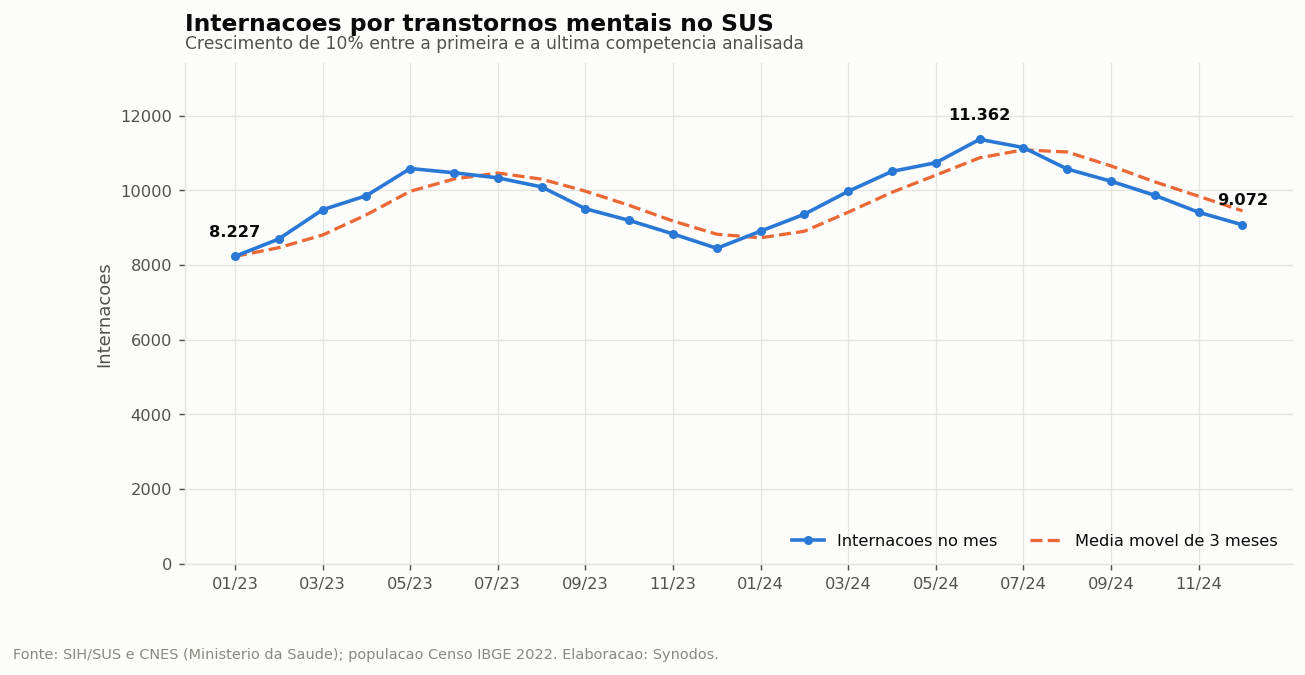
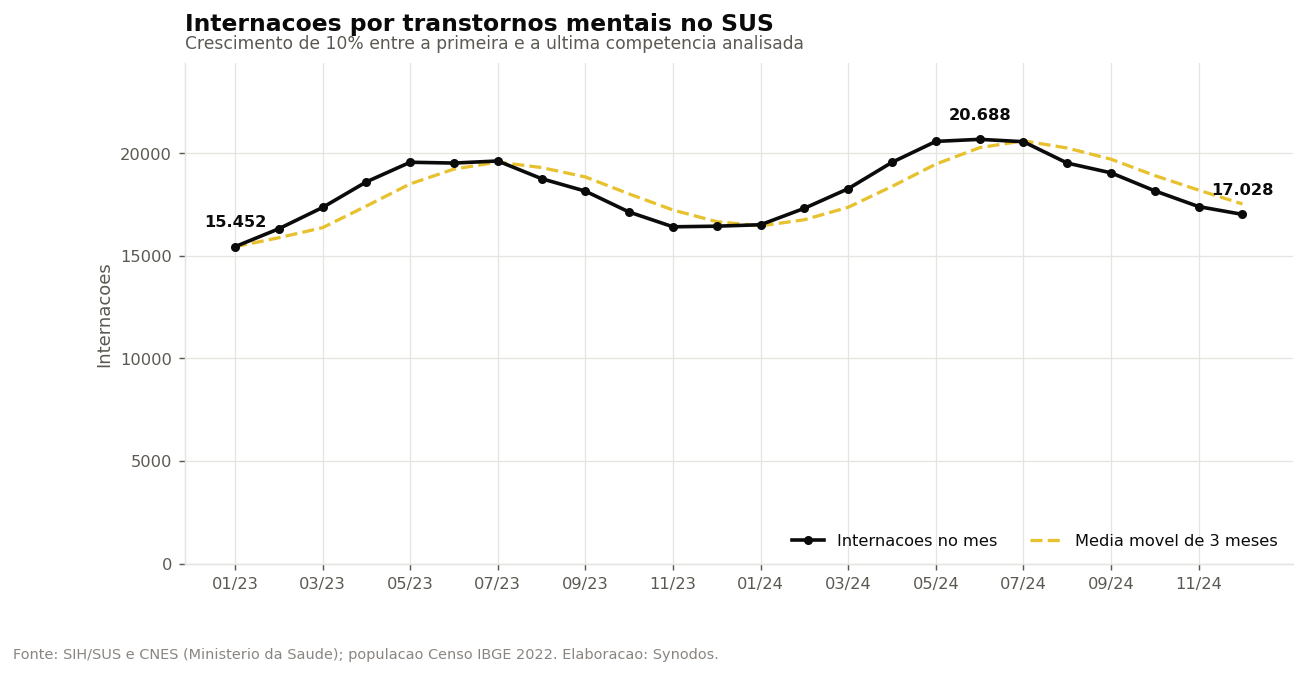
Upload Front-End

diff --git a/dashboard/app.py b/dashboard/app.py
@@ -25,14 +25,37 @@ sys.path.insert(0, str(Path(__file__).resolve().parents[1]))
 from config import settings  # noqa: E402
 
 # ------------------------------------------------------------------ paleta
-# Paleta categorica validada para daltonismo e contraste sobre fundo claro.
-SERIES = ["#2a78d6", "#eb6834", "#1baf7a", "#eda100",
-          "#e87ba4", "#008300", "#4a3aa7", "#e34948"]
-STATUS = {"Baixa": "#1baf7a", "Moderada": "#eda100",
-          "Alta": "#eb6834", "Crítica": "#e34948"}
-TEXT_SECONDARY = "#52514e"
-TEXT_MUTED = "#8a8880"
-GRID = "#e5e4df"
+# Identidade visual do Synodos: preto e ambar, herdada do prototipo da
+# Sprint 1. E um sistema monocromatico com um unico acento, entao a
+# diferenciacao vem da luminosidade, nao da variedade de matizes.
+PRETO = "#0b0b0b"
+AMBAR = "#e7c12e"
+AMBAR_ESCURO = "#b8860b"
+CINZA = "#8a8580"
+
+# Paleta categorica. Os graficos deste painel usam no maximo DUAS series
+# simultaneas, e o par preto/ambar tem separacao folgada: Delta E 66,9 em
+# visao com daltonismo e 68,9 em visao normal, muito acima dos pisos de 8
+# e 15. Os dois ultimos tons existem para eventuais terceiras series.
+SERIES = [PRETO, AMBAR, CINZA, AMBAR_ESCURO]
+
+# Escala de status, ordinal. Comeca no cinza neutro (sem alarme) e escurece
+# conforme a gravidade. O rotulo textual acompanha sempre a barra, entao a
+# identidade nunca depende so da cor - o que atende a regra de alivio para
+# o ambar, que fica abaixo de 3:1 de contraste sobre fundo branco.
+STATUS = {
+    "Baixa": CINZA,
+    "Moderada": AMBAR,
+    "Alta": AMBAR_ESCURO,
+    "Crítica": PRETO,
+}
+
+SUPERFICIE = "#ffffff"
+SUPERFICIE_CARD = "#f6f6f6"
+TEXT_SECONDARY = "#5c5952"
+TEXT_MUTED = "#8a8580"
+GRID = "#e6e4e0"
+BORDA = "#dedede"
 
 st.set_page_config(
     page_title="Synodos | Painel de Saúde Mental",
@@ -44,21 +67,73 @@ st.set_page_config(
 st.markdown(
     """
     <style>
-      .block-container {padding-top: 2.5rem; padding-bottom: 3rem;
-                        max-width: 1500px;}
-      [data-testid="stMetricValue"] {font-size: 1.9rem; font-weight: 600;}
-      [data-testid="stMetricLabel"] {font-size: 0.8rem; color: #52514e;}
-      h1 {font-size: 1.85rem !important; margin-bottom: 0.2rem !important;}
-      h3 {font-size: 1.15rem !important;}
-      .stTabs [data-baseweb="tab-list"] {gap: 1.6rem;}
-      .stTabs [data-baseweb="tab"] {padding: 0.4rem 0;}
-      .titulo-grafico {font-size: 1.02rem; font-weight: 600; color: #0b0b0b;
+      /* ---------------------------------------------- estrutura da pagina */
+      .block-container {padding-top: 1.2rem; padding-bottom: 3rem;
+                        max-width: 1560px;}
+      .stApp {background: #ffffff;}
+
+      /* ------------------------------- barra lateral preta, como no topo */
+      [data-testid="stSidebar"] {background: #0b0b0b;}
+      [data-testid="stSidebar"] * {color: #eceae5;}
+      [data-testid="stSidebar"] h1 {color: #e7c12e !important;
+                                    font-size: 1.5rem !important;
+                                    letter-spacing: 0.02em;}
+      [data-testid="stSidebar"] label,
+      [data-testid="stSidebar"] .stMarkdown p {color: #b9b5ad !important;
+                                               font-size: 0.82rem;}
+      [data-testid="stSidebar"] hr {border-color: #262626;}
+      /* campos de filtro sobre fundo escuro */
+      [data-testid="stSidebar"] [data-baseweb="select"] > div,
+      [data-testid="stSidebar"] [data-baseweb="input"] > div {
+          background: #1a1a1a; border-color: #333330;}
+      /* chips dos multiselect em ambar */
+      [data-testid="stSidebar"] [data-baseweb="tag"] {
+          background: #e7c12e !important;}
+      [data-testid="stSidebar"] [data-baseweb="tag"] span {
+          color: #0b0b0b !important; font-weight: 600;}
+      [data-testid="stSidebar"] [data-testid="stMetricValue"] {
+          color: #ffffff !important;}
+
+      /* -------------------------------------------- faixa preta do topo */
+      .faixa-topo {background: #0b0b0b; color: #ffffff;
+                   margin: -1.2rem -3rem 1.6rem -3rem;
+                   padding: 1.1rem 3rem 1.2rem 3rem;}
+      .faixa-topo .marca {color: #e7c12e; font-size: 0.72rem;
+                          font-weight: 700; letter-spacing: 0.16em;
+                          text-transform: uppercase;}
+      .faixa-topo h1 {color: #ffffff !important; font-size: 1.7rem !important;
+                      font-weight: 700; margin: 0.35rem 0 0.3rem 0 !important;}
+      .faixa-topo .legenda {color: #a8a49c; font-size: 0.86rem;
+                            line-height: 1.45;}
+
+      /* ------------------------------------------------------ indicadores */
+      [data-testid="stMetricValue"] {font-size: 1.95rem; font-weight: 700;
+                                     color: #0b0b0b;}
+      [data-testid="stMetricLabel"] {font-size: 0.78rem; color: #5c5952;}
+
+      /* ------------------------------------------------------------ abas */
+      .stTabs [data-baseweb="tab-list"] {gap: 1.9rem;
+                                         border-bottom: 1px solid #e6e4e0;}
+      .stTabs [data-baseweb="tab"] {padding: 0.5rem 0; font-weight: 500;}
+      .stTabs [aria-selected="true"] {color: #0b0b0b !important;}
+      .stTabs [data-baseweb="tab-highlight"] {background: #e7c12e;}
+
+      /* ------------------------------------------------ cartoes e blocos */
+      [data-testid="stVerticalBlockBorderWrapper"] {
+          background: #fbfbfa; border-radius: 10px;}
+      h3 {font-size: 1.15rem !important; color: #0b0b0b;}
+      .titulo-grafico {font-size: 1.02rem; font-weight: 700; color: #0b0b0b;
                        margin: 0.1rem 0 0.15rem 0;}
-      .sub-grafico {font-size: 0.82rem; color: #52514e;
+      .sub-grafico {font-size: 0.82rem; color: #5c5952;
                     margin: 0 0 0.6rem 0; line-height: 1.35;}
-      .rodape {color:#8a8880; font-size:0.78rem; margin-top:3rem;
-               border-top:1px solid #e5e4df; padding-top:1rem;
+      .rodape {color:#8a8580; font-size:0.78rem; margin-top:3rem;
+               border-top:1px solid #e6e4e0; padding-top:1rem;
                line-height: 1.6;}
+
+      /* --------------------------------------------------------- botoes */
+      .stButton button {border-color: #dedede; color: #0b0b0b;}
+      .stButton button:hover {border-color: #e7c12e; color: #0b0b0b;
+                              background: #fffbe9;}
     </style>
     """,
     unsafe_allow_html=True,
@@ -211,14 +286,14 @@ def layout_grafico(fig, altura: int = 360, legenda: bool = False):
         margin=dict(l=8, r=24, t=12, b=8),
         paper_bgcolor="rgba(0,0,0,0)",
         plot_bgcolor="rgba(0,0,0,0)",
-        font=dict(size=12, color=TEXT_SECONDARY),
+        font=dict(size=12, color=TEXT_SECONDARY, family="Inter, -apple-system, Segoe UI, Roboto, sans-serif"),
         # Localizacao brasileira: virgula decimal e ponto de milhar.
         # O primeiro caractere e o separador decimal, o segundo o de milhar.
         # Vale para os rotulos das barras e para os tooltips.
         separators=",.",
         showlegend=legenda,
         legend=dict(
-            orientation="h", yanchor="top", y=-0.18,
+            orientation="h", yanchor="top", y=-0.24,
             xanchor="left", x=0, title=None,
         ),
         hoverlabel=dict(font_size=12),
@@ -348,10 +423,15 @@ if f.empty:
 
 
 # ------------------------------------------------------------------ cabecalho
-st.title("Painel de Acesso Hospitalar em Saúde Mental")
-st.caption(
-    "Internações do SUS por transtornos mentais e comportamentais "
-    "(CID-10, Capítulo V), integradas ao cadastro da rede e à população IBGE"
+st.markdown(
+    '<div class="faixa-topo">'
+    '<div class="marca">SUS Saúde Mental · Painel Integrado</div>'
+    "<h1>Painel de Acesso Hospitalar em Saúde Mental</h1>"
+    '<div class="legenda">Internações do SUS por transtornos mentais e '
+    "comportamentais (CID-10, Capítulo V), integradas ao cadastro da rede "
+    "e à população IBGE</div>"
+    "</div>",
+    unsafe_allow_html=True,
 )
 with st.expander("Como usar este painel", expanded=False):
     st.markdown(
@@ -472,6 +552,14 @@ with abas[0]:
                 hovertemplate="%{x}<br>média %{y:,.0f}<extra></extra>",
             ))
             fig.update_yaxes(title_text="Internações")
+            # Com 24 competencias os rotulos ficam verticais e colidem com a
+            # legenda. Mostrar um a cada tres mantem tudo na horizontal.
+            passo = max(1, len(serie) // 8)
+            fig.update_xaxes(
+                tickmode="array",
+                tickvals=serie["rotulo"].iloc[::passo].tolist(),
+                tickangle=0,
+            )
             st.plotly_chart(
                 layout_grafico(fig, 380, legenda=True), width="stretch"
             )
@@ -557,7 +645,7 @@ with abas[0]:
                 fig.add_trace(go.Scatter(
                     x=proj["rotulo"], y=proj["limite_inferior"],
                     mode="lines", line=dict(width=0), fill="tonexty",
-                    fillcolor="rgba(235,104,52,0.16)",
+                    fillcolor="rgba(231,193,46,0.28)",
                     name="Intervalo de confiança 95%", hoverinfo="skip",
                 ))
                 fig.add_trace(go.Scatter(
@@ -568,6 +656,7 @@ with abas[0]:
                     hovertemplate="%{x}<br>%{y:,.0f} previstas<extra></extra>",
                 ))
                 fig.update_yaxes(title_text="Internações")
+                fig.update_xaxes(tickangle=0)
                 st.plotly_chart(
                     layout_grafico(fig, 340, legenda=True), width="stretch"
                 )

diff --git a/src/analytics/eda.py b/src/analytics/eda.py
@@ -179,22 +179,29 @@ def g_pressao(pressao: pd.DataFrame) -> Path:
     cores = [estilo.STATUS.get(c, estilo.SERIES[0])
              for c in df["classificacao"]]
 
-    fig, ax = plt.subplots(figsize=(10, 5))
-    ax.barh(df["nm_uf"], df["indice_pressao"], color=cores, height=0.6)
+    # A altura acompanha o numero de estados: com os 27 na tela, uma altura
+    # fixa esmaga os rotulos.
+    altura = max(5.0, len(df) * 0.30 + 1.6)
+    fig, ax = plt.subplots(figsize=(10, altura))
+    ax.barh(df["nm_uf"], df["indice_pressao"], color=cores, height=0.68)
 
     for i, (v, c) in enumerate(zip(df["indice_pressao"], df["classificacao"])):
-        ax.text(v + 1.2, i, f"{v:.0f}  ({c})", va="center", fontsize=9,
+        ax.text(v + 1.5, i, f"{v:.0f}  ·  {c}", va="center", fontsize=8.5,
                 fontweight="bold", color=estilo.TEXT_PRIMARY)
 
     ax.set_xlabel("Indice de Pressao Assistencial (0 a 100)")
-    ax.set_xlim(0, 100)
+    ax.set_xlim(0, 118)
+    ax.set_ylim(-0.8, len(df) - 0.2)
     ax.grid(axis="y", visible=False)
 
-    # Legenda de status: identidade nao depende so da cor
+    # Legenda de status acima do grafico, para nao cobrir barra nenhuma.
+    # STATUS_ORDEM evita a duplicata das duas grafias de "Critica".
     from matplotlib.patches import Patch
     ax.legend(
-        handles=[Patch(facecolor=v, label=k) for k, v in estilo.STATUS.items()],
-        loc="lower right", ncols=4, title=None,
+        handles=[Patch(facecolor=cor, label=nome)
+                 for nome, cor in estilo.STATUS_ORDEM],
+        loc="lower right", bbox_to_anchor=(1.0, 1.0), ncols=4,
+        title=None, frameon=False,
     )
 
     estilo.titular(
@@ -225,7 +232,7 @@ def g_distribuicao(df: pd.DataFrame) -> Path:
     )
     ax.axvline(perm.mean(), color=estilo.SERIES[1], linewidth=2,
                label=f"Media: {perm.mean():.1f} dias")
-    ax.axvline(perm.median(), color=estilo.SERIES[7], linewidth=2,
+    ax.axvline(perm.median(), color=estilo.SERIES[2], linewidth=2,
                linestyle="--", label=f"Mediana: {perm.median():.0f} dias")
     ax.set_xlabel("Dias de permanencia")
     ax.set_ylabel("Internacoes")
@@ -277,7 +284,7 @@ def g_correlacao(pressao: pd.DataFrame) -> tuple[Path, pd.DataFrame]:
     corr = base.corr(method="spearman")
 
     fig, ax = plt.subplots(figsize=(7.2, 6))
-    im = ax.imshow(corr, cmap="RdBu_r", vmin=-1, vmax=1)
+    im = ax.imshow(corr, cmap=estilo.mapa_divergente(), vmin=-1, vmax=1)
 
     ax.set_xticks(range(len(corr)), corr.columns, rotation=40, ha="right")
     ax.set_yticks(range(len(corr)), corr.columns)
@@ -289,7 +296,7 @@ def g_correlacao(pressao: pd.DataFrame) -> tuple[Path, pd.DataFrame]:
             ax.text(
                 j, i, f"{v:.2f}", ha="center", va="center", fontsize=9,
                 fontweight="bold",
-                color="white" if abs(v) > 0.55 else estilo.TEXT_PRIMARY,
+                color="white" if abs(v) > 0.62 else estilo.TEXT_PRIMARY,
             )
 
     cb = fig.colorbar(im, ax=ax, shrink=0.8)

diff --git a/src/analytics/estilo.py b/src/analytics/estilo.py
@@ -19,34 +19,59 @@ import matplotlib.pyplot as plt
 from matplotlib import font_manager
 
 # ------------------------------------------------------------ superficies
-SURFACE = "#fcfcfb"
+SURFACE = "#ffffff"
 TEXT_PRIMARY = "#0b0b0b"
-TEXT_SECONDARY = "#52514e"
-TEXT_MUTED = "#8a8880"
-GRID = "#e5e4df"
+TEXT_SECONDARY = "#5c5952"
+TEXT_MUTED = "#8a8580"
+GRID = "#e6e4e0"
 
-# ------------------------------------------------ paleta categorica (ordem fixa)
-SERIES = [
-    "#2a78d6",  # 1 azul
-    "#eb6834",  # 2 laranja
-    "#1baf7a",  # 3 aqua
-    "#eda100",  # 4 amarelo
-    "#e87ba4",  # 5 magenta
-    "#008300",  # 6 verde
-    "#4a3aa7",  # 7 violeta
-    "#e34948",  # 8 vermelho
+# ------------------------------------------------------- cores da marca
+PRETO = "#0b0b0b"
+AMBAR = "#e7c12e"
+AMBAR_ESCURO = "#b8860b"
+CINZA = "#8a8580"
+
+# ------------------------------------------------ paleta categorica
+# Sistema monocromatico com um acento, herdado do prototipo da Sprint 1.
+# O par preto/ambar tem Delta E 66,9 em daltonismo e 68,9 em visao normal.
+SERIES = [PRETO, AMBAR, CINZA, AMBAR_ESCURO]
+
+# ------------------------------------------------------- escala de status
+# Ordinal: cinza neutro para "sem alarme", escurecendo com a gravidade.
+# O dicionario aceita as duas grafias de "Critica" porque os CSV gerados
+# pelo pipeline usam a forma sem acento; para montar legendas, use
+# STATUS_ORDEM, que nao tem duplicatas.
+STATUS_ORDEM = [
+    ("Baixa", CINZA),
+    ("Moderada", AMBAR),
+    ("Alta", AMBAR_ESCURO),
+    ("Crítica", PRETO),
 ]
-
-# ------------------------------------------------------- paleta de status
-STATUS = {
-    "Baixa": "#1baf7a",
-    "Moderada": "#eda100",
-    "Alta": "#eb6834",
-    "Critica": "#e34948",
-}
+STATUS = {nome: cor for nome, cor in STATUS_ORDEM}
+STATUS["Critica"] = PRETO
 
 # ----------------------------------------------- rampa sequencial (um tom)
-SEQUENCIAL = ["#d6e4f7", "#a9c6ee", "#7aa7e2", "#4a8bd9", "#2a78d6", "#1c5aa3"]
+SEQUENCIAL = ["#fdf3cd", "#f6e08c", "#e7c12e", "#c9a013", "#9b7a0d", "#6b5308"]
+
+# --------------------------------------------------- rampa divergente
+# Correlacao e um dado divergente (negativo, zero, positivo), entao exige
+# dois polos com um neutro no meio - nao da para resolver so com o ambar.
+# Usamos ardosia para o polo negativo e o ambar da marca para o positivo,
+# com cinza neutro no zero.
+DIVERGENTE_NEGATIVO = "#2f4858"
+DIVERGENTE_NEUTRO = "#ecebe7"
+DIVERGENTE_POSITIVO = "#b8860b"
+
+
+def mapa_divergente():
+    """Colormap divergente na identidade do projeto."""
+    from matplotlib.colors import LinearSegmentedColormap
+
+    return LinearSegmentedColormap.from_list(
+        "synodos_div",
+        [DIVERGENTE_NEGATIVO, "#7b8b96", DIVERGENTE_NEUTRO,
+         "#d8b968", DIVERGENTE_POSITIVO],
+    )
 
 
 def aplicar_estilo() -> None:
